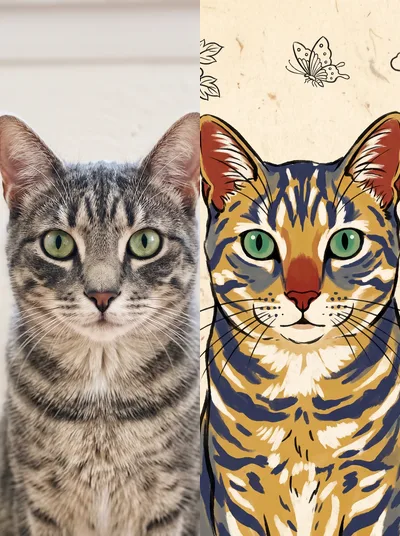
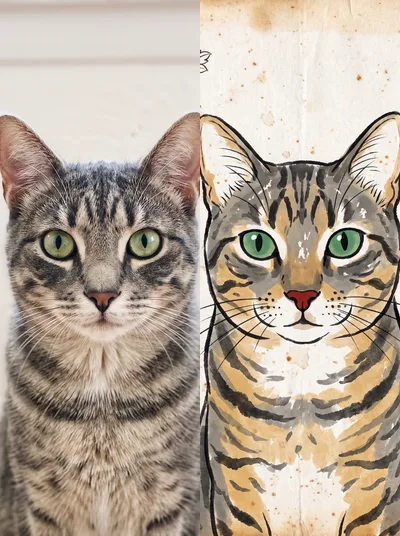
feat(790): 민화에 세월감 추가 — 갓 그린 그림이 아니라 오래된 민화로
오너 요청 "약간 aging 된 질감". 기존 문구는 "faintly aged tone and gentle
mottling" 뿐이라 실제로는 갓 그린 듯 깨끗하게 나왔다.

→ "나무 궤짝에서 이백 년" 을 전제로 구체적으로 적었다:
 · 한지가 차 우린 듯 누렇게 변색, 가장자리·모서리로 갈수록 짙어짐
 · 적갈색 반점(foxing)과 작은 물 얼룩
 · 접힌 자국과 오래된 주름, 가장자리 올 풀림
 · 석채가 바래 분필처럼 매트해지고, 잔균열과 안료가 떨어져 나간 자국
 · 먹선이 섬유로 살짝 번짐
 ⚠ "찢김·곰팡이·때 금지" 를 같이 넣었다. 세월감과 훼손은 다르다 —
    안 막으면 지저분한 쪽으로 간다.

검증: 고등어 고양이 / 20대 여성 2종 생성. 둘 다 반점·갈변·물얼룩·닳은 모서리·
안료 바램이 실제로 나왔다. 썸네일도 세월감 버전으로 교체.

sw v72 → v73.

diff --git a/public/sw.js b/public/sw.js
@@ -10,7 +10,7 @@
 // 새 버전 배포 시: 아래 VERSION 만 올리면 됨.
 // ============================================================
 
-const VERSION = "v72";
+const VERSION = "v73";
 const STATIC_CACHE = `rimikimi-static-${VERSION}`;
 const THUMB_CACHE = `rimikimi-thumbs-${VERSION}`;
 const DATA_CACHE = `rimikimi-data-${VERSION}`;
